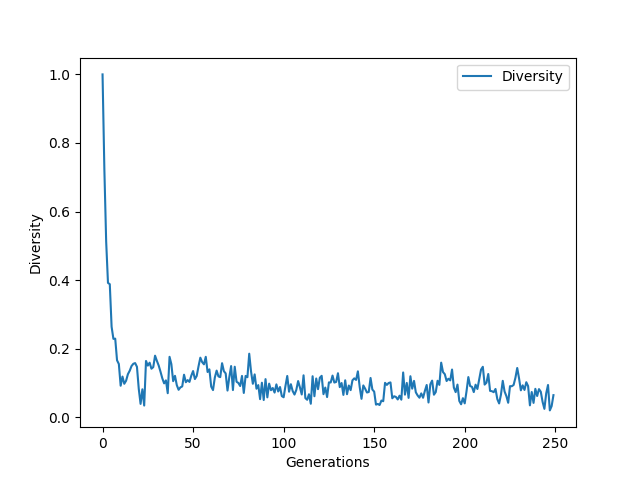
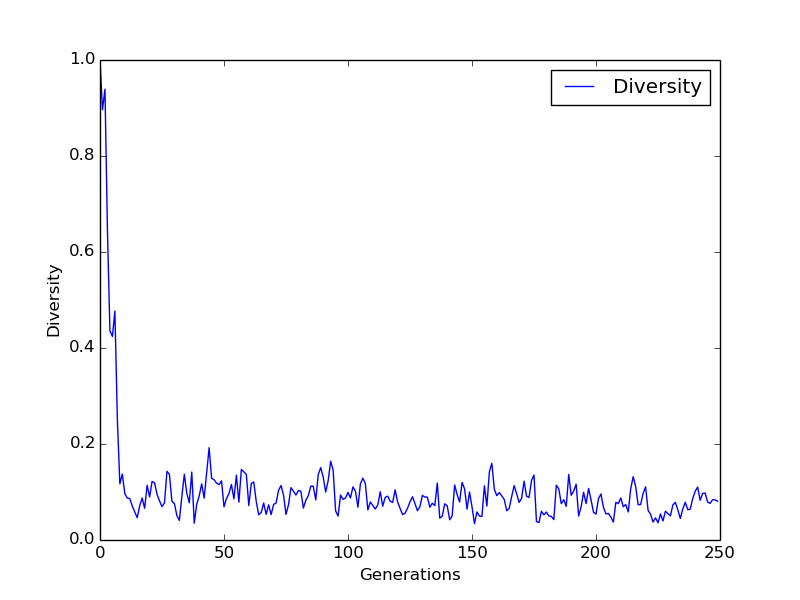
Finished!

diff --git a/OCEV/fitness.py b/OCEV/fitness.py
@@ -41,17 +41,14 @@ def sphere(matriz, pop, d):
   gt = []
   for i in range(pop):
     for j in range(d):
-      fitness = fitness + (matriz[i][j]**2)
+      fitness = fitness + (matriz[i][j]*matriz[i][j])
     gt.append(fitness)
-    # matriz[i].append(fitness)
-    # matriz[i][d] = fitness
     fitness = 0.0
   for i in range(pop):
-    fit = gt[i]
-    fit = fit/max(gt)
-    newFt = (1.0 - fit)
-    matriz[i].append(newFt)
-    matriz[i][d] = newFt
+    # print(gt)
+    fit = 1.0-(gt[i]/max(gt))
+    matriz[i].append(fit)
+    matriz[i][d] = fit
   return matriz
 
 # Radio Factory

diff --git a/OCEV/mutation.py b/OCEV/mutation.py
@@ -26,7 +26,6 @@ def randMutation(valorMat,d):
   valorMat = ran
   return valorMat
 
-
 # REAL
 def deltaMutation(valorMat):
   prob = random.choice([0,1])
@@ -48,8 +47,6 @@ def gaussianMutation(valorMat):
   y1 = mt.sqrt(-2.0 * mt.log(x1)) * mt.cos(2.0 * mt.pi * x2)
   final = y1 * 0.1 + valorMat
   valorMat = final
-
-
   return valorMat
 
 # PERMUTACAO

diff --git a/OCEV/main.py b/OCEV/main.py
@@ -96,7 +96,7 @@ def main():
             newGen = aux
 
     newPopu = newPop(newGen,var.pop_size,var.d_size)
-    print (elected)
+    # print (elected)
     if var.elitism:
       randIndex = random.randint(0,(var.d_size-1))
       newPopu[randIndex] = elected

diff --git a/OCEV/variaveis.py b/OCEV/variaveis.py
@@ -3,12 +3,12 @@ import math as mt
 
 generations = 250
 k = 2
-pop_size = 10
-d_size = 10
+pop_size = 50
+d_size = 5
 bounds = [-50,50]
 
-elitism = True
-# elitism = False
+# elitism = True
+elitism = False
 
 # 1 = Roullette, 2 = Tournament
 # selection = 1

diff --git a/OCEV/naturalSelection.py b/OCEV/naturalSelection.py
@@ -66,6 +66,7 @@ def elit(matriz,pop,d):
   for i in range(d):
     if submat[i] > best:
       best = submat[i]
+      # print(best) 
       index = i
   for i in range(d):
     submat2.append(matriz[index][i])

diff --git a/OCEV/plotPram.py b/OCEV/plotPram.py
@@ -12,6 +12,7 @@ def getBest(matriz,pop,d):
   for i in range(d):
     if submat[i] > best:
       best = submat[i]
+      # print(best) 
   return best
 
 def averageInd(matriz,pop,d):
